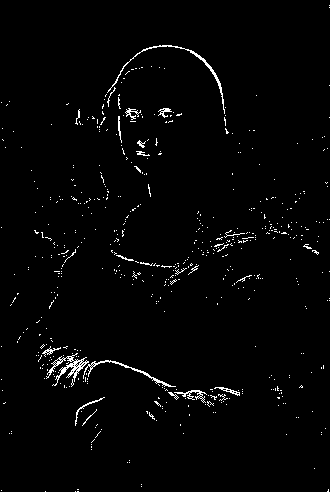
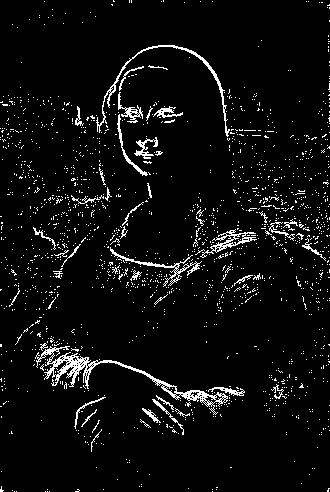
fix thresholding

diff --git a/services/thresholding.py b/services/thresholding.py
@@ -1,9 +1,17 @@
 import numpy as np
 
+def find_average(arr):
+    return arr[0]*0.299+arr[1]*0.587+arr[2]*0.114
+
 def effect_thresholding(img_matrix):
     T = 127
     output_img_matrix = np.copy(img_matrix)
-    for index, value in np.ndenumerate(output_img_matrix):
-        output_img_matrix[index] = 255 if value > T else 0
+    for x in range(output_img_matrix.shape[0]):
+        for y in range(output_img_matrix.shape[1]):
+            average_value = find_average(output_img_matrix[x, y])
+            if average_value > T:
+                output_img_matrix[x,y] = [255, 255, 255]
+            else:
+                output_img_matrix[x, y] = [0, 0, 0]
 
     return output_img_matrix
